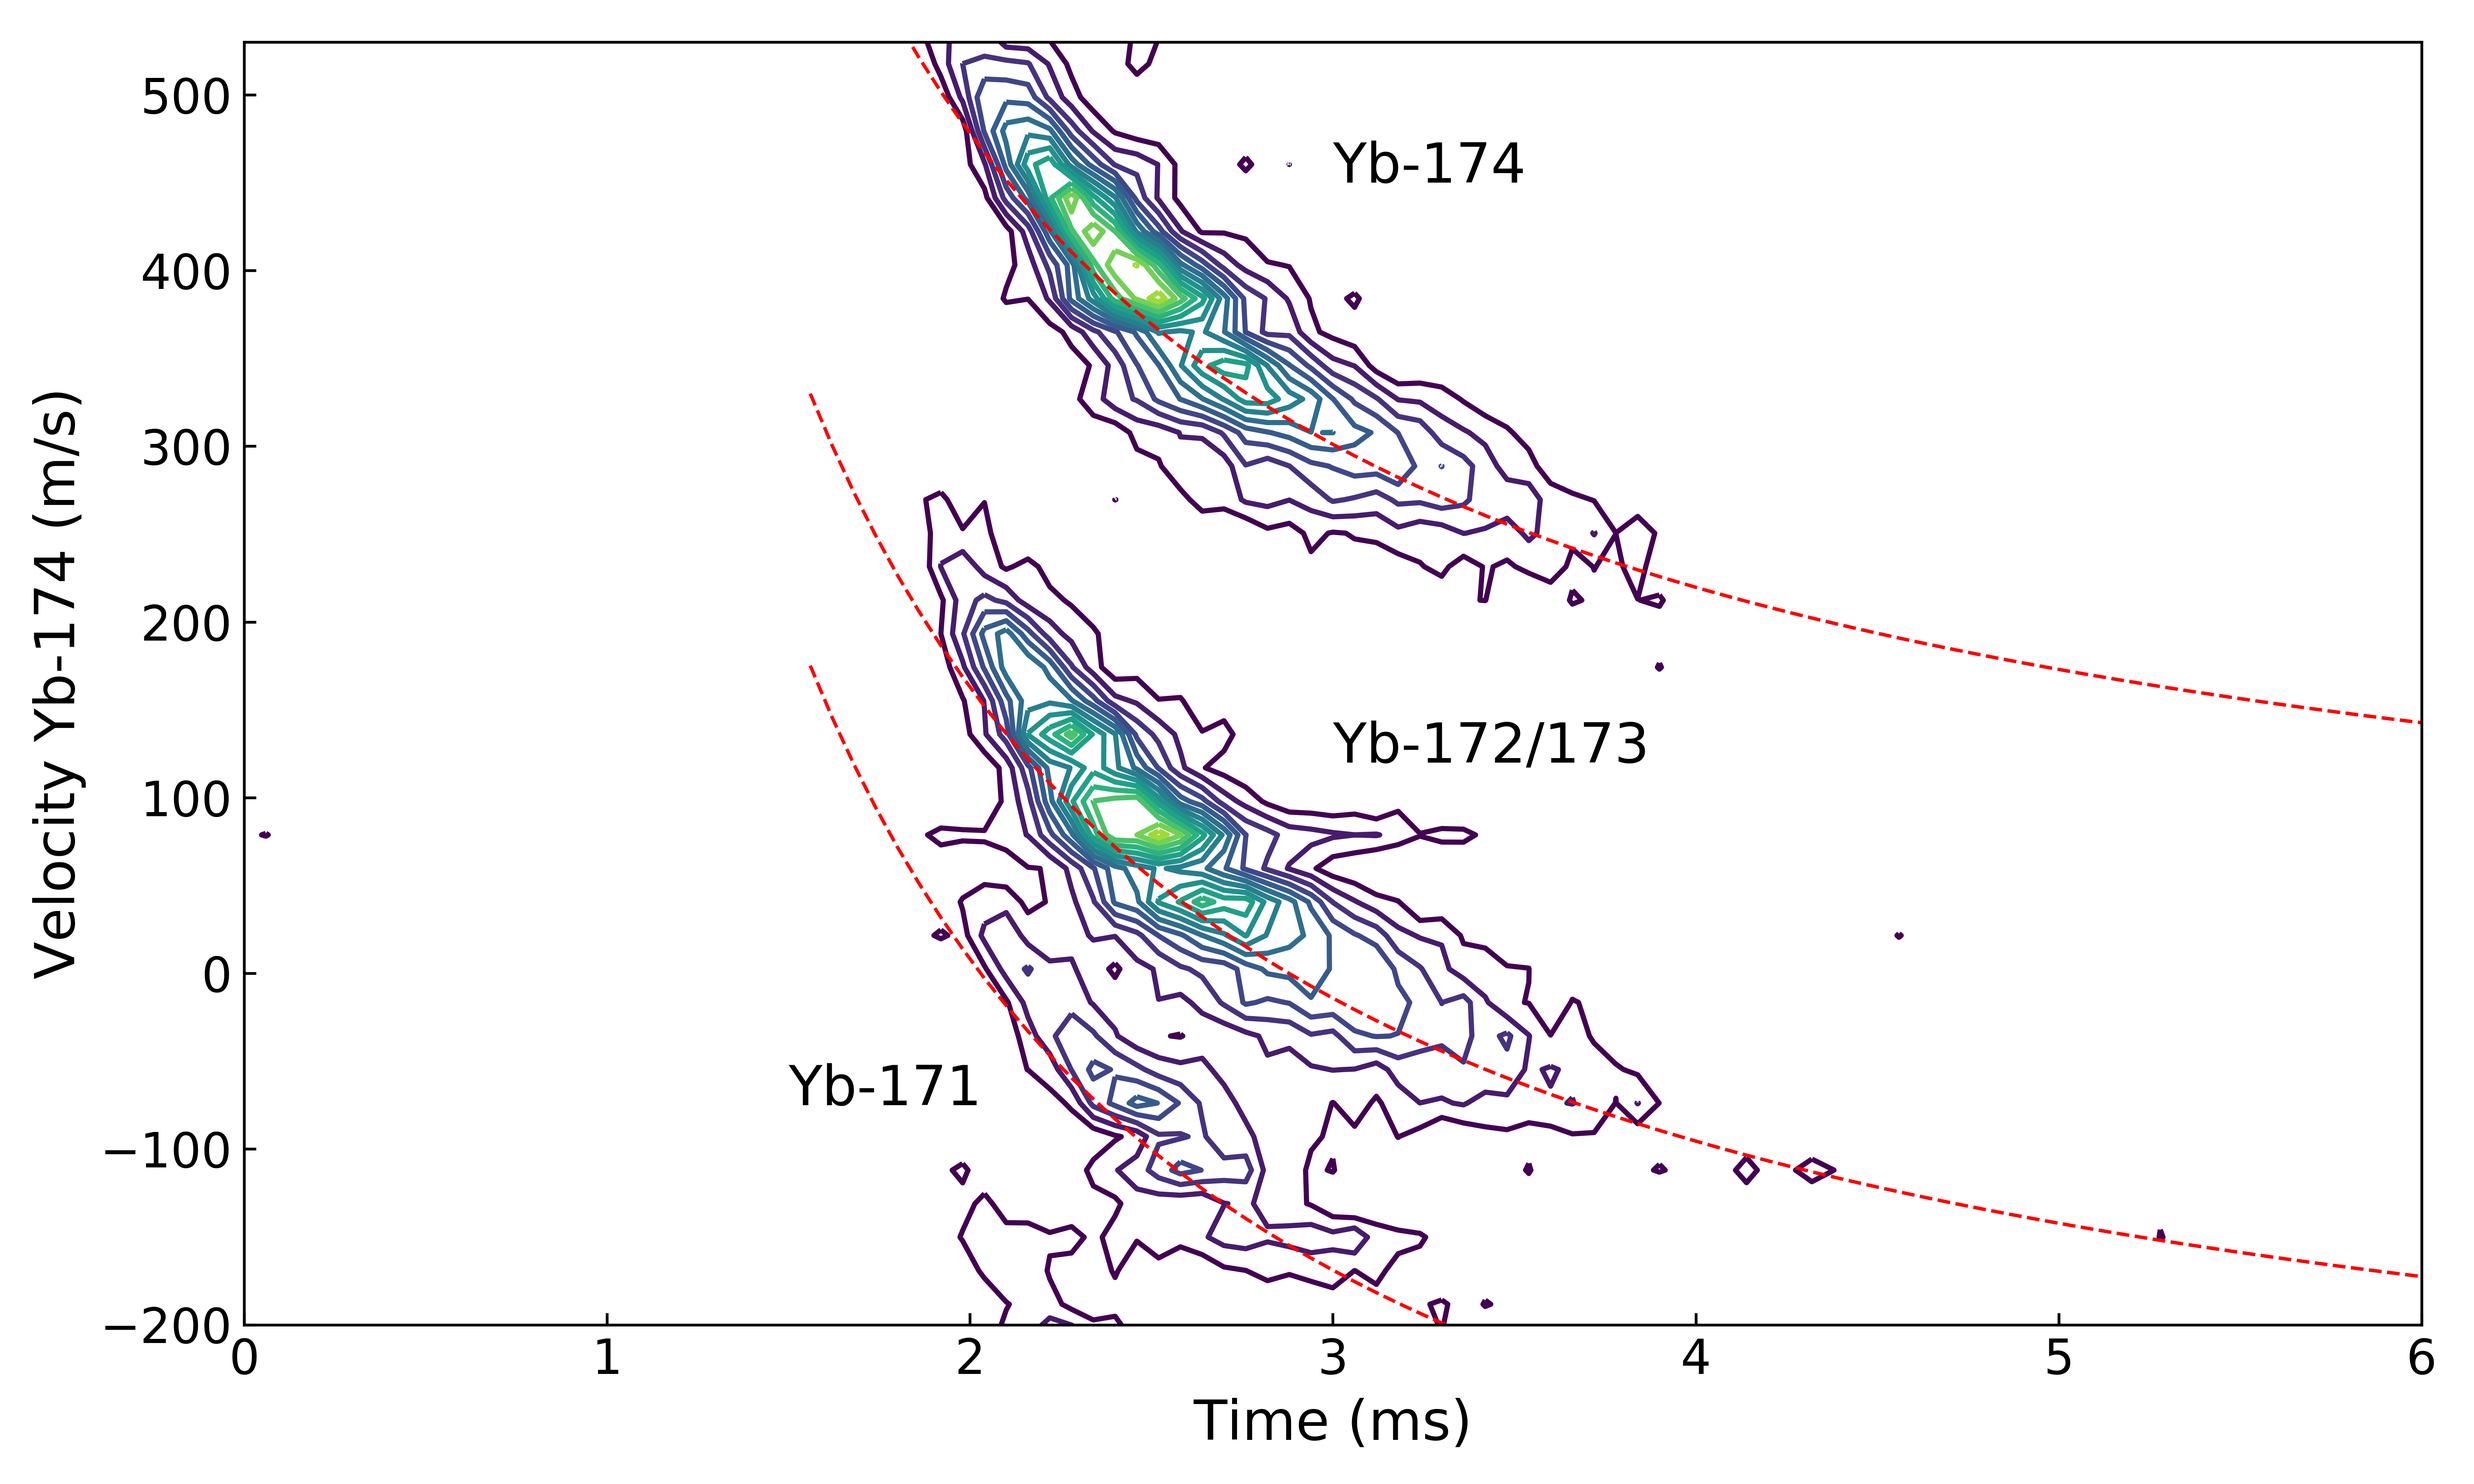
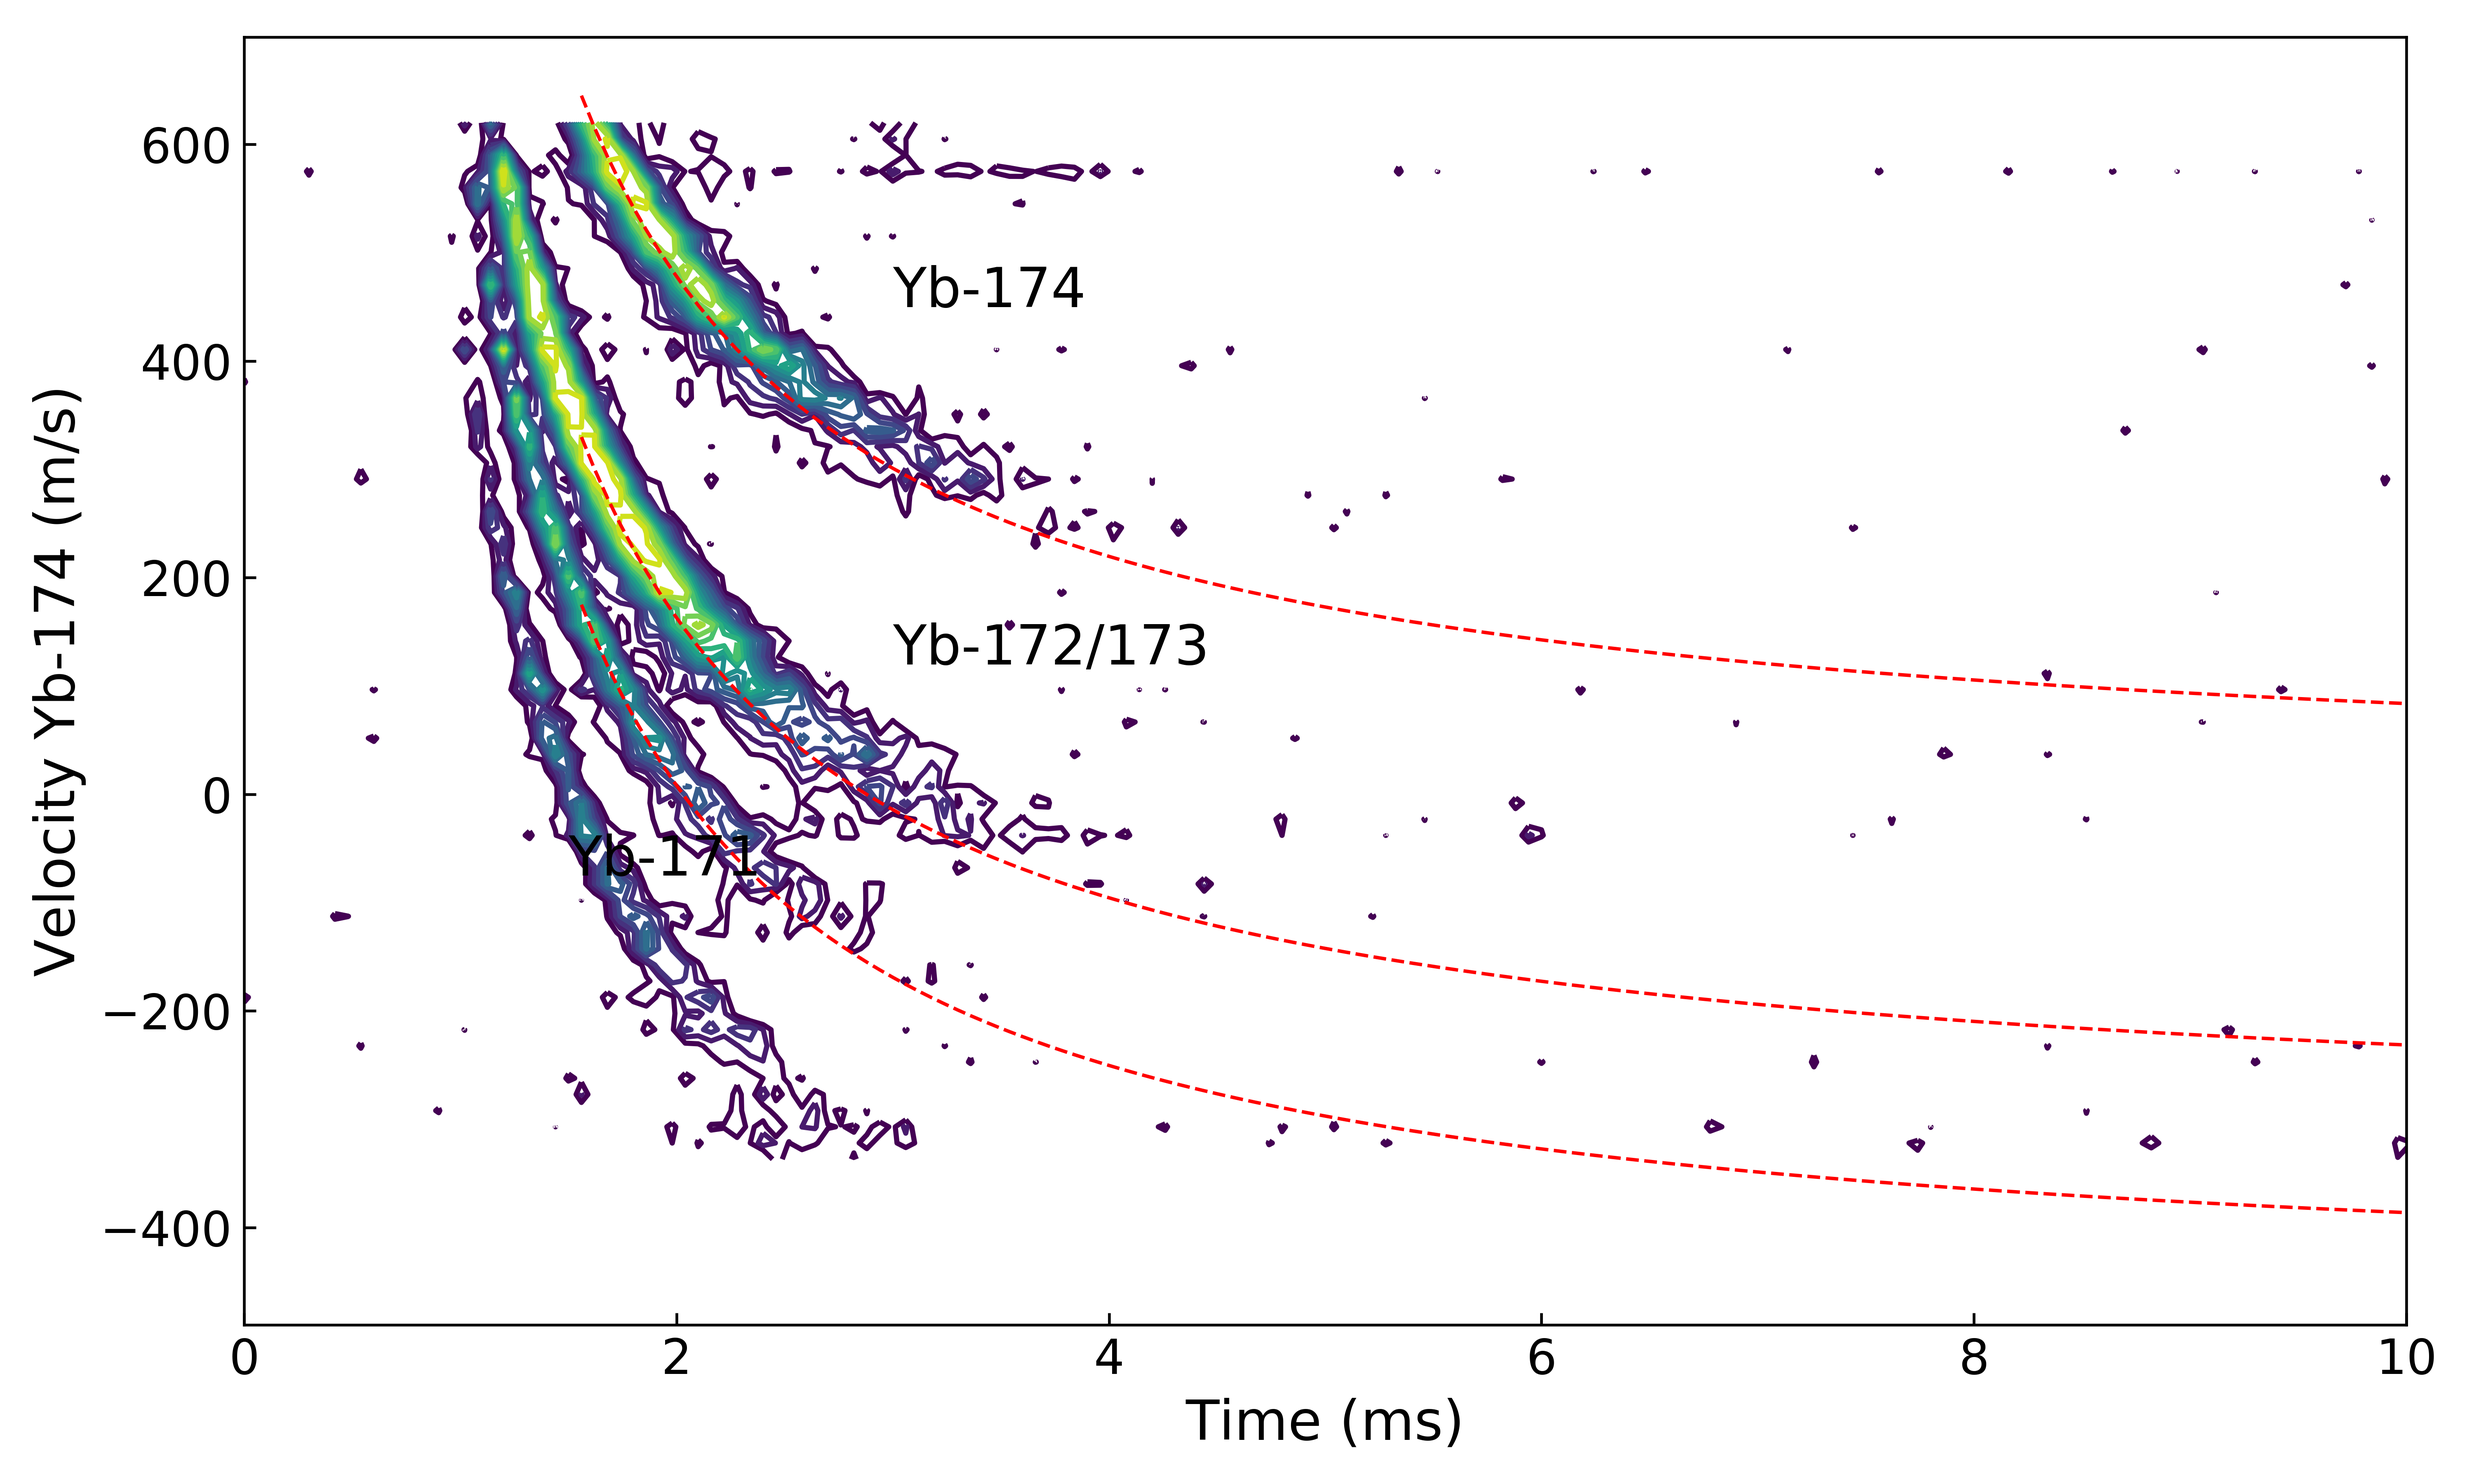
new spectra plots

diff --git a/plot_spectra/show_yb2.py b/plot_spectra/show_yb2.py
@@ -1,0 +1,258 @@
+import numpy as np
+import datetime
+import matplotlib.pyplot as plt
+import os
+import glob
+import sys
+from fit_yb import *
+from fit_mo import *
+
+
+c = 299792458
+yb_174_freq = 751.52653349 # in THz
+
+
+# hlp is helper variable
+
+
+
+def av(arr, no_of_avg):
+    # for 1D array
+    if len(arr.shape)==1:
+        hlp = np.zeros([int(arr.shape[0]/no_of_avg)])
+
+        for k in range(len(hlp)):
+            for m in range(no_of_avg):
+                hlp[k] += arr[no_of_avg*k + m]
+
+        return hlp/no_of_avg
+
+    if len(arr.shape)==2:     
+
+        # for 2D array
+        hlp = np.zeros([int(arr.shape[0]/no_of_avg), arr.shape[1]])
+
+        for k in range(len(hlp)):
+            for m in range(no_of_avg):
+                hlp[k] += arr[no_of_avg*k + m, :]
+
+        return hlp/no_of_avg
+
+
+
+my_today = datetime.datetime.today()
+
+#datafolder = '/Users/boerge/skynet/molecule_computer/'
+datafolder = '/home/molecules/software/data/'
+
+
+basefolder = '20191023'
+#time_stamp = '123451'
+time_stamp = sys.argv[1]
+
+#basefolder = '20191004'
+#time_stamp = '171345'
+
+
+
+basefilename = datafolder + basefolder + '/' + basefolder + '_'
+
+
+f_freqs = basefilename + time_stamp + '_freqs'
+f_ch1 = basefilename + time_stamp + '_ch1'
+f_ch2 = basefilename + time_stamp + '_ch2'
+f_ch3 = basefilename + time_stamp + '_ch3'
+
+
+freqs = np.genfromtxt(f_freqs, delimiter=",")
+ch1 = np.genfromtxt(f_ch1, delimiter=",")
+ch2 = np.genfromtxt(f_ch2, delimiter=",")
+ch3 = np.genfromtxt(f_ch3, delimiter=",")
+
+
+# get number of averages
+no_of_avg = int(len(freqs)/len(np.unique(freqs)))
+
+print('Found ' + str(no_of_avg) + ' averages.')
+
+freqs = av(freqs, no_of_avg)
+ch1 = av(ch1, no_of_avg)
+ch2 = av(ch2, no_of_avg)
+ch3 = av(ch3, no_of_avg)
+
+
+#avg_freq = np.mean(freqs)
+#avg_freq = 2*avg_freq
+
+#nus = (freqs - yb_174_freq/2.0 )*1e12/1e6
+#nus = (freqs - yb_174_freq/2.0 )*1e12/1e6
+
+avg_freq = np.mean(freqs)
+
+nus = 2.0*(freqs - yb_174_freq/2.0)*1e12/1e6
+
+
+
+
+
+
+delay_in_for_loop = 60e-6
+no_of_time_points = ch1.shape[1]
+times = np.arange(0, no_of_time_points) * (delay_in_for_loop) / 1e-3
+
+   
+
+cut_time1 = 10.0
+cut_time2 = 12.0
+
+ch1_start = np.where( np.abs(times - cut_time1) < 0.5 )[0][0]
+ch1_end = np.where( np.abs(times - cut_time2) < 0.5 )[0][0]
+
+# subtracting the DC offset
+offset_avg_points = 5
+for k in range(ch1.shape[0]):
+    ch1[k, :] = ch1[k, :] - np.mean(ch1[k, -offset_avg_points:-1])
+    ch2[k, :] = ch2[k, :] - np.mean(ch2[k, -offset_avg_points:-1])
+    ch3[k, :] = ch3[k, :] - np.mean(ch3[k, -offset_avg_points:-1])
+
+
+# w = k*v * cos(theta)
+# v = nu * lambda/cos(theta)
+
+velocities = -398*10**-9 * (2.0*freqs - yb_174_freq)*1e12 / np.cos(np.pi/4.0)
+
+
+
+plt.figure(figsize=(10,6))
+
+plt.pcolor(times, nus, ch1)
+plt.colorbar()
+
+plt.xlabel('Time (ms)', fontsize = 16)
+plt.ylabel('Frequencies (MHz)', fontsize = 16)
+plt.tick_params(labelsize=14,direction='in')
+
+plt.gca().invert_yaxis()
+
+
+
+
+plt.figure(figsize=(10,6))
+
+plt.pcolor(times, nus, ch3)
+plt.colorbar()
+
+plt.xlabel('Time (ms)', fontsize = 16)
+plt.ylabel('Frequencies (MHz)', fontsize = 16)
+plt.tick_params(labelsize=14,direction='in')
+
+plt.gca().invert_yaxis()
+
+
+plt.xlim(0, 10)
+
+
+plt.tight_layout()
+
+
+
+
+
+plt.figure(figsize=(10,6))
+
+plt.pcolor(times, velocities, ch3)
+plt.colorbar()
+
+plt.xlabel('Time (ms)', fontsize = 16)
+plt.ylabel('Velocity (m/s)', fontsize = 16)
+plt.tick_params(labelsize=14,direction='in')
+
+#plt.gca().invert_yaxis()
+
+
+plt.xlim(0, 10)
+#plt.ylim(-200, 550)
+
+
+plt.tight_layout()
+
+
+
+
+
+
+plt.figure(figsize=(10,6))
+
+
+count_min = 0.35
+count_max = np.max(np.max(ch3))
+
+#count_min = 0.75
+#count_max = 3.75
+
+
+ch3_plot = np.copy(ch3)
+ind = np.where(ch3<count_min)
+
+#ch3_plot[ind] = np.nan
+
+
+#plt.pcolor(times, velocities, ch3_plot)
+plt.contour(times, velocities, ch3_plot, np.linspace(count_min, count_max, 15))
+
+plt.xlabel('Time (ms)', fontsize = 16)
+plt.ylabel('Velocity Yb-174 (m/s)', fontsize = 16)
+plt.tick_params(labelsize=14,direction='in')
+
+#plt.gca().invert_yaxis()
+
+
+
+vel_shift_172 = -(589.0+531.0)/2.0*1e6 * 398*10**-9 / np.cos(np.pi/4.0)
+vel_shift_171 = -835.0*1e6 * 398*10**-9 / np.cos(np.pi/4.0)
+
+yag_fire_time = 0.3
+
+time1 = np.where(times > 1.5)[0][0] #yag_fire_time)[0][0]
+
+plt.plot(times[time1:], 32 * 25.4e-3/(times[time1:] - yag_fire_time)/1e-3, 'r--', linewidth = 1)
+
+plt.plot(times[time1:], vel_shift_172 + 32 * 25.4e-3/(times[time1:] - yag_fire_time)/1e-3, 'r--', linewidth = 1)
+
+plt.plot(times[time1:], vel_shift_171 + 32 * 25.4e-3/(times[time1:] - yag_fire_time)/1e-3, 'r--', linewidth = 1)
+
+
+
+plt.xlim(0, 10)
+#plt.ylim(-200, 530)
+
+
+plt.tight_layout()
+
+
+plt.text(3.0, 450, 'Yb-174', fontsize = 16)
+plt.text(3.0, 120, 'Yb-172/173', fontsize = 16)
+plt.text(1.5, -75, 'Yb-171', fontsize = 16)
+
+
+
+plt.savefig('ytterbium_beam.png', dpi=600)
+
+
+
+#plt.figure(figsize=(10,6))
+#
+#time1 = np.where( np.abs(times - 1.75) < 0.5 )[0][0]
+#time2 = np.where( np.abs(times - 4.00) < 0.5 )[0][0]
+#
+#vel_sum = np.mean(ch3_plot[:, time1:time2], axis = 1)
+#
+#plt.plot(velocities, vel_sum)
+#
+#plt.xlabel('Velocities (m/s)')
+#plt.ylabel('Signal (a.u.)')
+
+
+
+plt.show()
+
